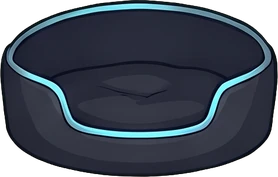
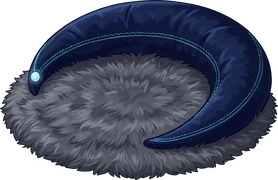
ROOMS: evolved wolf (k5) and wyvern (k6), 11 frames each at 1.4x, beds; wolf bed is now a crescent-moon fur rug (Cal: not a dog bed)

diff --git a/shots/pending_art/cal_1124/APPROVAL.md b/shots/pending_art/cal_1124/APPROVAL.md
@@ -1,0 +1,22 @@
+# Cal's 11-24 art list: approval sheet (ROOMS)
+
+Cal approves everything here in one batch at the end; QA wear-tests each group first. Status per group: DRAFT -> WITH QA -> QA PASS.
+
+## A. Evolved pets (secret: ids are opaque, k4 slime, k5 wolf, k6 wyvern) - WITH QA
+Shaped live with Cal on 11-24 (his notes: more dramatic, epic but cool, not a boss; outfits must still fit; slime becomes a cat
+with slime paws and keeps the forehead star; wyvern gets black-purple accents and some flames; evolved bigger than the first form).
+- Wolf (k5): silver chest and muzzle, swept-back ice horns, a short flame crest, three flame tails, cyan runes, a crescent moon.
+  Shoulders and chest kept smooth for collars, vests and capes. 1.4x the pup.
+- Wyvern (k6): adult body, black-purple scales, amber horns and wings, small flames only at the tail and wing tips. 1.4x the baby.
+- Slime (k4): an upright jelly cat on round paws (no drips), pink star on the forehead, two flame tails. 1.4x. Walk frames: fix in progress.
+- Sheets: pets/sheet_k*.png (Higgsfield), pets/cmp_<pet>.png (first form over evolved, true size),
+  pets/ingame_sizes.png (all six in the real Bedroom: beside the player, and asleep in the bed).
+- Earlier tries (Cal: "too similar") in pets/v1/.
+
+## B. Pet beds - WITH QA
+- Wolf: the round dog-bowl bed is replaced by a shaggy fur rug with a navy crescent-moon bolster and a moon-stone (pbed_wolf, and
+  pbed_k5 at 1.4x). Slime cushion and wyvern nest unchanged; pbed_k4 / pbed_k6 are them at 1.4x.
+- Every form checked asleep on its bed in the game (pets/ingame_sizes.png, right-hand crops).
+
+## C-G
+Not started: pet brands (C), backdrops (D), tattoos and scars (E), soul stone (F), five Atelier brands (G).
